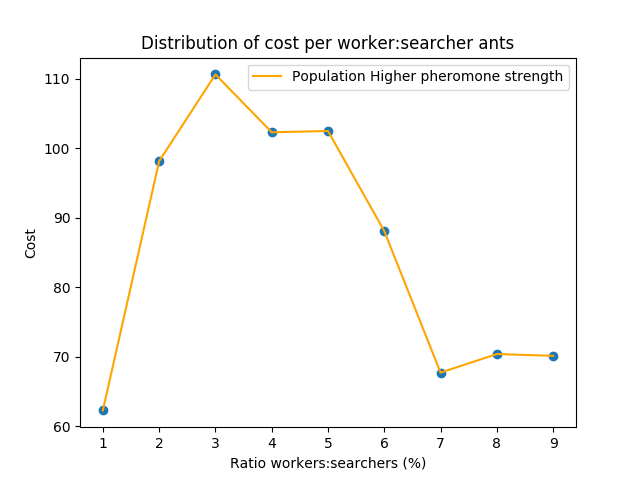
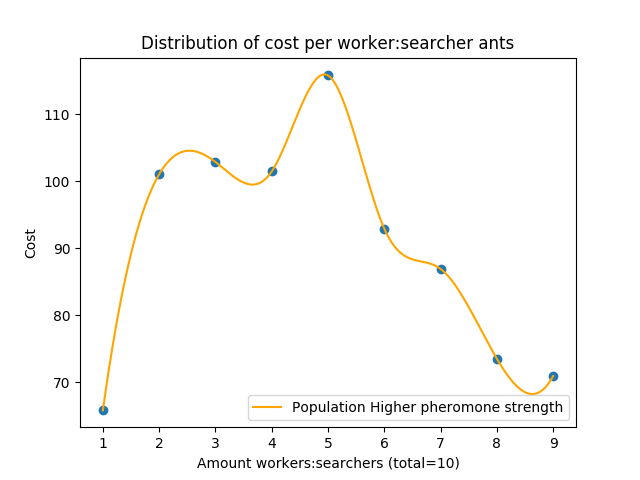
Smoothed plot

diff --git a/final.py b/final.py
@@ -18,11 +18,12 @@ import time
 from statistics import stdev
 
 from scipy.stats import norm
+from scipy.interpolate import make_interp_spline, BSpline
 
 cost = [35.1629999999999, 65.93599999999932, 60.98299999999982, 63.50499999999972, 58.5399999999997, 81.97399999999936, 71.29199999999955, 64.08199999999961, 69.51199999999966]
 
-cost2 = [62.30099999999966, 98.12499999999922, 110.58899999999875, 102.2749999999997, 102.4589999999991, 88.06799999999899, 67.72599999999944, 70.39599999999965, 70.13599999999973]
-cost3 = [97.85099999999964, 109.52099999999947, 105.75499999999964, 110.6309999999996, 115.39099999999937, 89.23599999999898, 79.57199999999912, 67.2249999999997, 65.99899999999984]
+cost2 = [65.8379999999995, 101.05799999999925, 102.88199999999928, 101.46599999999917, 115.79899999999866, 92.93499999999878, 86.93799999999878, 73.54599999999961, 70.94599999999967]
+
 
 
 
@@ -43,6 +44,7 @@ def plot_distributions(pop1, pop2, term1, term2, titel):
     plt.xlabel('Ratio workers:searchers (%)')
     plt.legend(labels=['Population ' + term1,'Population ' + term2])
     plt.ylabel('Cost')
+
     plt.savefig(titel)
     plt.show()
 
@@ -58,7 +60,7 @@ def ttest_pvalue(pop1, pop2):
 
 #food_t, food_p = ttest_pvalue(cost, cost1)
 strength_t, strength_p = ttest_pvalue(cost, cost2)
-fade_t, fade_p = ttest_pvalue(cost, cost3)
+#fade_t, fade_p = ttest_pvalue(cost, cost3)
 
 # print(food_t)
 # print(food_p)
@@ -83,9 +85,12 @@ def scatter_boiii(cost, term, titel):
     x = list(range(1,10))
     plt.scatter(x, cost)
     plt.yscale('linear')
-    plt.plot(x,cost, color = 'orange')
+    xnew = np.linspace(min(x), max(x),300) 
+    spl = make_interp_spline(x, cost, k=3) #BSpline object
+    power_smooth = spl(xnew)
+    plt.plot(xnew,power_smooth, color = 'orange')
     plt.title('Distribution of cost per worker:searcher ants')
-    plt.xlabel('Ratio workers:searchers (%)')
+    plt.xlabel('Amount workers:searchers (total=10)')
     plt.legend(labels=['Population ' + term])#,'Population ' + term2])
     plt.ylabel('Cost')
     plt.savefig(titel)
@@ -94,4 +99,4 @@ def scatter_boiii(cost, term, titel):
 scatter_boiii(cost, 'Baseline', 'baseline.png')
 #scatter_boiii(cost1, 'Two food sources', 'two_food_boisss.png')
 scatter_boiii(cost2, 'Higher pheromone strength', 'high_on_pheromone.png')
-scatter_boiii(cost3, 'Higher fading rate of pheromone', 'fading.png')
+#scatter_boiii(cost3, 'Higher fading rate of pheromone', 'fading.png')

diff --git a/antcolony.py b/antcolony.py
@@ -28,7 +28,7 @@ def make_data(grid, strength, fade, food_sources):
 
         # determine the amount of boards and the cost of 100 iterations
 
-        amount_iterations = 1
+        amount_iterations = 100
         for i in range(amount_iterations):
             # make the environment for the simulation
             world = Grid([grid, strength, fade, search, work])
@@ -122,17 +122,17 @@ while not correct_input:
         food_sources = [(11,18)]
         food_sources2 = [(11, 18), (2, 1)]
 
-        # this collects the baseline data and puts it in txt file
-        cost, boards = make_data(25, 0.1, 0.005, food_sources)
-        with open("cost.txt", "w") as output:
-            output.write(str(cost))
-            output.write(str(boards))
+        # # this collects the baseline data and puts it in txt file
+        # cost, boards = make_data(25, 0.1, 0.005, food_sources)
+        # with open("cost.txt", "w") as output:
+        #     output.write(str(cost))
+        #     output.write(str(boards))
 
-        # this collects the two food sources data and puts it in txt file
-        cost1, boards1 = make_data(25, 0.1, 0.005, food_sources2)
-        with open("cost1.txt", "w") as output:
-            output.write(str(cost1))
-            output.write(str(boards1))
+        # # this collects the two food sources data and puts it in txt file
+        # cost1, boards1 = make_data(25, 0.1, 0.005, food_sources2)
+        # with open("cost1.txt", "w") as output:
+        #     output.write(str(cost1))
+        #     output.write(str(boards1))
 
         # this collects the higher pheromone strength data and puts in txt file
         cost2, boards2 = make_data(25, 0.2, 0.005, food_sources)
@@ -141,11 +141,12 @@ while not correct_input:
             output.write(str(boards2))
 
         # this collects the higher pheromone fade data and puts it in txt file
-        cost3, boards3 = make_data(25, 0.1, 0.01, food_sources)
-        with open("cost3.txt", "w") as output:
-            output.write(str(cost3))
-            output.write(str(boards3))
-
+        # cost3, boards3 = make_data(25, 0.1, 0.01, food_sources)
+        # with open("cost3.txt", "w") as output:
+        #     output.write(str(cost3))
+        #     output.write(str(boards3))
+        print(cost2)
+        print(boards2)
 
         correct_input = True
 
